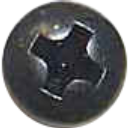
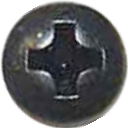
Added regular offset for Drives, moved rot_offset from DImage to Drive, started thinking about lighting, adjusted the main demo a little bit.

diff --git a/image.py b/image.py
@@ -9,20 +9,17 @@ class DImage(drive.Drive):
 	Data attributes:
 	tex -- A resman.Texture instance to display.
 	size -- The size of the image in meters.
-	rot_offset -- Result of multiplying this by object's angle is glRotated before drawing.
 	"""
 	
-	def __init__(self, imgfile, size, rot_offset = 0):
+	def __init__(self, imgfile, size, offset = None, rot_offset = 0):
 		"""Creates a DImage from the given image file. Size given is in meters."""
-		super(DImage, self).__init__(drawing = True)
+		super(DImage, self).__init__(drawing = True, offset = offset, rot_offset = rot_offset)
 		self.tex = resman.Texture(imgfile)
 		self.size = size
+		self.offset = offset
 		self.rot_offset = rot_offset
 	
 	def _draw(self, obj):
-		if (abs(self.rot_offset*obj.ang) > 0.00001):
-			glRotate(util.rev2deg(obj.ang*self.rot_offset), 0, 0, 1)
-		
 		glEnable(GL_TEXTURE_2D)
 		glTexEnvf(GL_TEXTURE_ENV, GL_TEXTURE_ENV_MODE, GL_REPLACE)
 		glBindTexture(GL_TEXTURE_2D, self.tex.glname)
@@ -39,6 +36,7 @@ class DImage(drive.Drive):
 		glDisable(GL_TEXTURE_2D)
 
 
+
 class DTiledImage(drive.Drive):
 	"""Drive that draws an image tiled over an area.
 	
@@ -46,13 +44,13 @@ class DTiledImage(drive.Drive):
 	tex -- A resman.Texture instance to use as the tile.
 	size -- In meters, the size of the region centered at the object's position over which to tile the image.
 	tilesize -- The size of one tile in meters.
-	clamp -- 2-tuple of booleans, clamps the respective axis with GL instead of repeating.
-	offset -- Moves the tiled pattern around within the drawing box.
+	clamp -- 2-tuple of booleans, True causes GL to clamp respective axis instead of repeating.
+	tileoffset -- Moves the tiled pattern around within the drawing box.
 	"""
 	
-	def __init__(self, imgfile, size, tilesize, clamp = None, offset = None):
-		"""Creates an DBackground from the given image file. Size given is in meters."""
-		super(DTiledImage, self).__init__(drawing = True)
+	def __init__(self, imgfile, size, tilesize, clamp = None, tileoffset = None, offset = None, rot_offset = 0):
+		"""Creates an DTiledImage from the given image file. Size given is in meters."""
+		super(DTiledImage, self).__init__(drawing = True, offset = offset, rot_offset = rot_offset)
 		self.tex = resman.Texture(imgfile)
 		self.size = size
 		self.tilesize = tilesize
@@ -60,8 +58,8 @@ class DTiledImage(drive.Drive):
 		if clamp == None: self.clamp = (False, False)
 		else: self.clamp = clamp
 		
-		if offset == None: self.offset = Point()
-		else: self.offset = offset
+		if tileoffset == None: self.tileoffset = Point()
+		else: self.tileoffset = tileoffset
 	
 	def _draw(self, obj):
 		#For correctly sizing the tile within the boundaries.
@@ -71,10 +69,10 @@ class DTiledImage(drive.Drive):
 		texoffset = (self.size/self.tilesize - 1)/2
 		
 		#Convert to units that are tile-size, rather than meters. Negative for translation.
-		tile_offset = (-self.offset)/self.tilesize
+		gl_tile_offset = (-self.tileoffset)/self.tilesize
 		
 		#In OpenGL, y-axis is flipped
-		tile_offset[1] = -tile_offset[1]
+		gl_tile_offset[1] = -gl_tile_offset[1]
 		
 		glEnable(GL_TEXTURE_2D)
 		glTexEnvf(GL_TEXTURE_ENV, GL_TEXTURE_ENV_MODE, GL_REPLACE)
@@ -98,13 +96,13 @@ class DTiledImage(drive.Drive):
 		textopright = Point(1 + texoffset[0], 1 + texoffset[1])
 		
 		glBegin(GL_QUADS)
-		glTexCoord2fv(textopleft + tile_offset)
+		glTexCoord2fv(textopleft + gl_tile_offset)
 		glVertex2fv(self.size.tl())
-		glTexCoord2fv(textopright + tile_offset)
+		glTexCoord2fv(textopright + gl_tile_offset)
 		glVertex2fv(self.size.tr())
-		glTexCoord2fv(texbottomright + tile_offset)
+		glTexCoord2fv(texbottomright + gl_tile_offset)
 		glVertex2fv(self.size.br())
-		glTexCoord2fv(texbottomleft + tile_offset)
+		glTexCoord2fv(texbottomleft + gl_tile_offset)
 		glVertex2fv(self.size.bl())
 		glEnd()
 		glDisable(GL_TEXTURE_2D)
@@ -117,9 +115,9 @@ class DWireBlock(drive.Drive):
 	size -- A 2-tuple with the width and height of the block in meters
 	"""
 	
-	def __init__(self, color = None, size = None):
+	def __init__(self, color = None, size = None, offset = None, rot_offset = 0):
 		"""Creates a DWireBlock. Size is in meters."""
-		super(DWireBlock, self).__init__(drawing = True)
+		super(DWireBlock, self).__init__(drawing = True, offset = offset, rot_offset = rot_offset)
 
 		if color == None: self.color = colors.blue
 		else: self.color = color
@@ -154,9 +152,9 @@ class DBlock(drive.Drive):
 	size -- A 2-tuple with the width and height of the block in meters
 	"""
 	
-	def __init__(self, color = None, size = None):
+	def __init__(self, color = None, size = None, offset = None, rot_offset = 0):
 		"""Creates an DBlock. Given position and size are in meters."""
-		super(DBlock, self).__init__(drawing = True)
+		super(DBlock, self).__init__(drawing = True, offset = offset, rot_offset = rot_offset)
 		
 		if color == None: self.color = colors.blue
 		else: self.color = color

diff --git a/gameobj.py b/gameobj.py
@@ -214,14 +214,20 @@ class LimbedGameObj(GameObj):
 	
 	The limbs are just other GameObjs. This GameObj's regular geom is kept in a space, the geom_space data
 	attribute, which also contains the geoms of all the sub-objects.
+
+	During the process of running step(), draw(), etc., the following steps are made:
+	- The regular drives for the object are ran
+	- The drives for each limb are ran
+	- The 'drives' attribute is temporarily set to the postdrives, those drives are ran, then the attribute is restored
 	
 	Data attributes (other than ones in GameObj that are still here):
+	postdrives -- A TrackerList of drives which are ran _after_ the limb drives are ran.
 	space -- An ODE space which contains this object's geom and the geoms of all limbs.
 	limbs -- A TrackerList of other GameObjs that are attached to the main one.
 	joints -- A TrackerList of HingeJoints connecting the limbs to the main geom. Add to this with the add_limb method.
 	"""
 	
-	def __init__(self, pos = None, ang = 0, body = None, drives = None, space = None):
+	def __init__(self, pos = None, ang = 0, body = None, drives = None, space = None, postdrives = None):
 		"""Creates a LimbedGameObj. Pos and ang given override the position of body.
 
 		Note that you cannot pass a geom into the constructor. That's because when an ODE geom is created, you have to give it
@@ -240,18 +246,22 @@ class LimbedGameObj(GameObj):
 
 		if space == None: self.space = ode.SimpleSpace(app.dyn_space)
 		else: self.space = space
+		
+		if postdrives == None: self.postdrives = util.TrackerList()
+		elif isinstance(postdrives, util.TrackerList): self.postdrives = postdrives
+		else: self.postdrives = util.TrackerList(postdrives)
 	
 	def add_limb(self, limb, anchor):
 		"""Adds a limb to the limbs data attribute, attaching it with a HingeJoint.
 		
 		Limb objects, when passed in, should already be positioned correctly. It should have
 		a geom that is a child of the LimbedGameObj's space. The anchor
-		argument should be an offset relative to the limb's center where the joint should be attached."""
+		argument should be an offset relative to the object's center where the joint should be attached."""
 		
 		self.limbs.append(limb)
 		joint = ode.HingeJoint(app.odeworld)
 		joint.attach(limb.body, self.body)
-		joint.setAnchor((limb.pos[0] + anchor[0], limb.pos[1] + anchor[1], 0))
+		joint.setAnchor((self.pos[0] + anchor[0], self.pos[1] + anchor[1], 0))
 		joint.setAxis((0, 0, 1))
 		self.joints.append(joint)
 	
@@ -259,16 +269,28 @@ class LimbedGameObj(GameObj):
 		super(LimbedGameObj, self).draw()
 		for limb in self.limbs:
 			limb.draw()
+		temp_drives = self.drives
+		self.drives = self.postdrives
+		super(LimbedGameObj, self).draw()
+		self.drives = temp_drives
 	
 	def predraw(self):
 		super(LimbedGameObj, self).predraw()
 		for limb in self.limbs:
 			limb.predraw()
+		temp_drives = self.drives
+		self.drives = self.postdrives
+		super(LimbedGameObj, self).predraw()
+		self.drives = temp_drives
 	
 	def step(self):
 		super(LimbedGameObj, self).step()
 		for limb in self.limbs:
 			limb.step()
+		temp_drives = self.drives
+		self.drives = self.postdrives
+		super(LimbedGameObj, self).step()
+		self.drives = temp_drives
 	
 	def sync_ode(self):
 		super(LimbedGameObj, self).sync_ode()

diff --git a/satyrnose.py b/satyrnose.py
@@ -31,7 +31,7 @@ app.ui.open()
 runs = 1
 for i in range(runs):
 	app.sim_init()
-
+	
 	app.objects.append(TrackerList())
 	app.objects[0].append(gameobj.GameObj(Point(0, -6)))
 	app.objects[0][0].drives.append(background.DTiledBg("swirlybg.png", Size(100, 100), Size(2, 2), Point(-0.9, -0.9)))
@@ -112,18 +112,19 @@ for i in range(runs):
 	#app.objects[2][0].drives.append(magnet.DLineMagnet(-0.1, Point(0.75, 0)))
 	app.objects[2][0].ang = 0.3
 	app.objects[2][0].drives.append(joints.DEnvJoint(util.anchored_joint(ode.BallJoint, app.objects[2][0])))
-	app.objects[2][0].drives.append(image.DImage("screw.png", Size(0.1, 0.1), -1))
+	app.objects[2][0].drives.append(image.DImage("screw.png", Size(0.1, 0.1), rot_offset = -1))
 	
-	app.objects[2].append(gameobj.LimbedGameObj(body = sphere_body(1, 0.375)))
-	app.objects[2][1].geom = box_geom(Size(0.2, 0.5), app.objects[2][1].space)
+	app.objects[2].append(gameobj.LimbedGameObj(body = sphere_body(1, 0.6)))
+	app.objects[2][1].geom = box_geom(Size(0.5, 0.5), app.objects[2][1].space)
 	app.objects[2][1].pos = Point(4.5, 9)
+	app.objects[2][1].drives.append(image.DImage("left.png", Size(0.5, 0.5)))
 	app.objects[2][1].add_limb(gameobj.GameObj(
-		Point(4.5, 9.4),
-		body=sphere_body(1, 0.6),
-		geom=box_geom(Size(0.5, 0.5), app.objects[2][1].space),
-		drives=[image.DImage("left.png", Size(0.5, 0.5))])
-	, Point(0, -0.2))
-	app.objects[2][1].drives.append(image.DBlock(colors.gray, Size(0.2, 0.5)))
+		Point(4.5, 8.65),
+		body=sphere_body(1, 0.375),
+		geom=box_geom(Size(0.2, 0.5), app.objects[2][1].space),
+		drives=[image.DBlock(colors.gray, Size(0.2, 0.5))])
+	, Point(0, -0.18))
+	app.objects[2][1].postdrives.append(image.DImage("screw.png", Size(0.1, 0.1), Point(0, -0.18)))
 
 	app.objects[2].append(gameobj.GameObj(
 		Point(6, 9.4),
@@ -137,7 +138,7 @@ for i in range(runs):
 				"four":image.DImage("4.png", Size(0.5, 0.5))
 			}, {
 				"a":sprite.DSprite.Anim([("one", 100), ("two", 100), ("three", 100), ("four", 100)], "b"),
-				"b":sprite.DSprite.Anim([("four", 700), ("two", 700), ("four", 700), ("two", 700)], "a")
+				"b":sprite.DSprite.Anim([("four", 700), ("three", 700), ("two", 700), ("one", 700)], "a")
 			}
 		)]
 	))

diff --git a/light.py b/light.py
@@ -1,0 +1,47 @@
+from OpenGL.GL import *
+
+import colors, drive
+
+class DLightField(drive.Drive):
+	"""A drive that keeps track of a bunch of Lights, then flattens them and
+	draws them each frame.
+
+	Each Light is given to the field in terms of absolute game world
+	coordinates. They're kept seperated, in a list, until it comes time to
+	draw them. Then, DLightField creates an image based on the lighting effects,
+	draws the image to the screen, then clears the screen. By flattening and
+	then drawing, rather than just drawing each effect, we can do things like
+	start out with darkness and add light and get a reasonable-looking result.
+
+	You can provide DLightField with a background Light, which will be re-added
+	to the list of Lights after each time it is cleared.
+
+	The position of the GameObj that the light field is attached to is irrelevant.
+	By convention, the main DLightField should be the only drive of the only
+	game object of layer #6. We have this as part of the Drive hierarchy because
+	it can also be used for other "lights" which, since they're part of the lower
+	layers, have visibility that's determined by the main light.
+	
+	Data attributes:
+	lights -- A list of Lights, which are applied in order (latter ones over earlier ones)
+	"""
+	
+	def __init__(self):
+		super(DLightField, self).__init__(drawing = true)
+		self.lights = []
+	
+	def _draw(self, obj):
+		foreach light in lights:
+			light.draw()
+
+
+class BgLight:
+	"""A Light that affects the entire screen equally.
+
+	Data attributes:
+	alpha -- A floating point value defining the alpha
+	col -- A 3-tuple defining the color
+	"""
+
+	def __init__(self, alpha, color = colors.black):
+		

diff --git a/drive.py b/drive.py
@@ -1,4 +1,7 @@
-import consenv
+from __future__ import division
+from OpenGL.GL import *
+
+import consenv, util
 
 class Drive(object):
 	"""Base class for classes that control GameObj behavior/visuals.
@@ -7,13 +10,17 @@ class Drive(object):
 	implement the respective behaviors.
 	
 	Data attributes:
+	offset -- If not None, then before a draw takes place, we translate by this Point.
+	rot_offset -- If not near-zero, then before a draw takes place, rotates this amount of revolutions.
 	drawing -- If false, then calls to draw() and predraw() do nothing.
 	stepping -- If false, then calls to step() do nothing.
 	"""
 	
-	def __init__(self, drawing = False, stepping = False):
+	def __init__(self, drawing = False, stepping = False, offset = None, rot_offset = 0):
 		self.drawing = drawing
 		self.stepping = stepping
+		self.offset = offset
+		self.rot_offset = rot_offset
 		
 	def draw(self, obj):
 		"""Puts the object on-screen somehow.
@@ -21,7 +28,23 @@ class Drive(object):
 		This will be called by app in a state where GL is ready and
 		GL units are meters."""
 		if (self.drawing):
+			need_pop = False
+			
+			if abs(self.rot_offset*obj.ang) > 0.00001:
+				glPushMatrix()
+				glRotate(util.rev2deg(obj.ang*self.rot_offset), 0, 0, 1)
+				need_pop = True
+			
+			if self.offset != None:
+				glTranslatef(self.offset[0], self.offset[1], 0)
+				if not need_pop:
+					glPushMatrix()
+					need_pop = True
+			
 			self._draw(obj)
+		
+			if need_pop:
+				glPopMatrix()
 	
 	def _draw(self, obj):
 		pass

diff --git a/background.py b/background.py
@@ -17,18 +17,18 @@ class DTiledBg(image.DTiledImage):
 	tilesize -- The size of one tile in meters.
 	parallax -- Point with offset of amount to parallax-nudge in each axis (in meters per meters of camera movement).
 	clamp -- 2-tuple of booleans, clamps the respective axis with GL instead of repeating.
-	offset -- Like parallax, but simply adds the value in meters directly; camera is not involved.
+	tileoffset -- Like parallax, but simply adds the value in meters directly; camera is not involved.
 	"""
 	
-	def __init__(self, imgfile, size, tilesize, parallax = None, clamp = None, offset = None):
+	def __init__(self, imgfile, size, tilesize, parallax = None, clamp = None, tileoffset = None, offset = None, rot_offset = 0):
 		"""Creates an DBackground from the given image file. Size given is in meters."""
-		super(DTiledBg, self).__init__(imgfile, size, tilesize, clamp, offset)
+		super(DTiledBg, self).__init__(imgfile, size, tilesize, clamp, tileoffset, offset, rot_offset)
 		if parallax == None: self.parallax = Point()
 		else: self.parallax = parallax
 	
 	def _draw(self, obj):
 		#Apply the parallax, do the draw, then revert the DTiledImage to its original state
-		old_offset = copy.copy(self.offset)
-		self.offset -= self.parallax*(app.ui.camera-obj.pos)
+		old_offset = copy.copy(self.tileoffset)
+		self.tileoffset -= self.parallax*(app.ui.camera-obj.pos)
 		super(DTiledBg, self)._draw(obj)
-		self.offset = old_offset
+		self.tileoffset = old_offset

diff --git a/app.py b/app.py
@@ -37,6 +37,7 @@ def sim_init():
 	3 - Player objects (there should really only be one of these) in space "dyn_space"
 	4 - Foreground objects (dust particles, etc) in space "dyn_space" or without geoms
 	5 - Non-colliding foreground imagery (close-up tree leaves, fog, etc), without geoms
+	6 - Light (a single GameObj with a single DLightField drive)
 	This way, drives can make reasonable guesses about where to append() newly created GameObjs.
 	
 	Objects in static_space do not collide with one another. Objects in dyn_space collide

diff --git a/interface.py b/interface.py
@@ -78,6 +78,8 @@ class Interface:
 			glClearColor(1.0, 1.0, 1.0, 0.0)
 			glEnable(GL_BLEND)
 			glBlendFunc (GL_SRC_ALPHA, GL_ONE_MINUS_SRC_ALPHA)
+
+			#glEnable(GL_LIGHTING)
 			
 			self.cons = console.Console()
 			self.watchers = []
